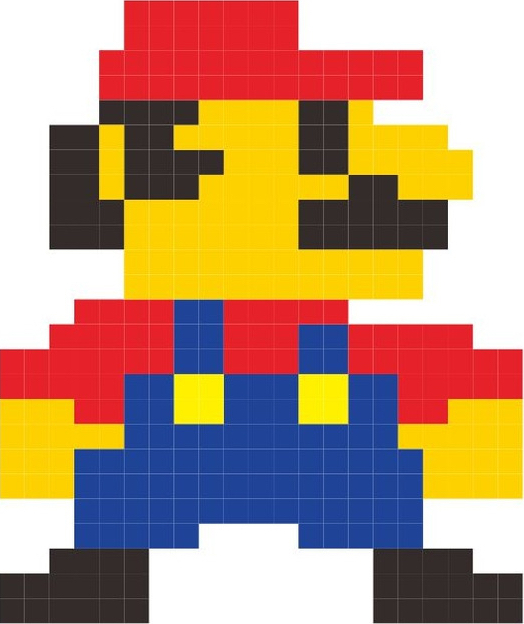
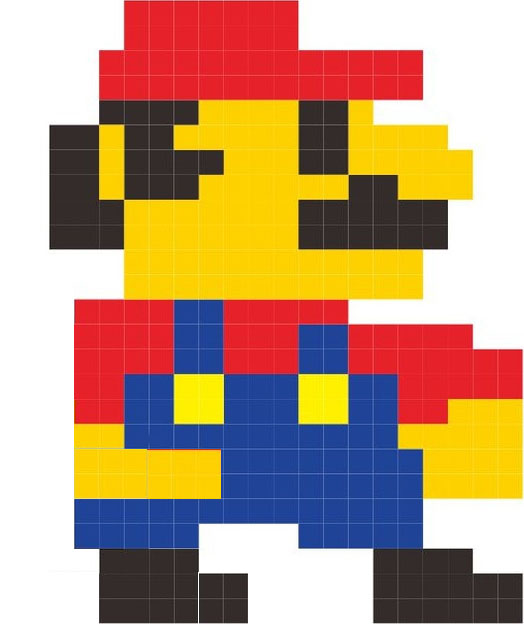
test

Changed region(s): [[0.0, 0.5176, 0.4275, 0.8221], [0.0, 0.8526, 0.2137, 1.0], [0.2748, 0.8526, 0.4885, 1.0]]

diff --git a/src/index.ts b/src/index.ts
@@ -2,6 +2,7 @@ import { PolygonPainter } from './painter/PolygonPainter';
 import { RectanglePainter } from './painter/RectanglePainter';
 import { ImagePainter } from './painter/ImagePainter';
 import { MoveLeftToRight } from './behavior/MoveLeftToRight';
+import { RunInPlace } from './behavior/RunInPlace';
 import { Sprite } from './sprite';
 
 let canvas: HTMLCanvasElement = document.querySelector('#canvas');
@@ -10,19 +11,37 @@ let context: CanvasRenderingContext2D = canvas.getContext('2d');
 canvas.width = 1000;
 canvas.height = 500;
 
-let img = '/src/static/images/m.jpg';
-let sprite = new Sprite('polygon', (new ImagePainter(img)), [MoveLeftToRight]);
+let img = '/src/static/images/mario.png';
+let cells = [
+    { left: 0, top: 0, width: 16, height: 32 },
+    { left: 16, top: 0, width: 16, height: 32 },
+    { left: 32, top: 0, width: 16, height: 32 },
+    { left: 48, top: 0, width: 16, height: 32 }
+];
+let sprite = new Sprite('polygon', (new ImagePainter(img, cells)), [(new RunInPlace),MoveLeftToRight]);
 sprite.left = 400;
 sprite.top = 200;
 sprite.width = 52;
 sprite.height = 62;
 
-function animate() {
-    console.log('trigger');
+let sprite2 = new Sprite('mario', (new ImagePainter(img, cells)), [(new RunInPlace), MoveLeftToRight] );
+
+sprite2.left = 200;
+sprite2.top = 100;
+sprite2.width = 52;
+sprite2.height = 62;
+
+let last = 0;
+
+function animate(time) {
+    console.log('time:', time);
     context.clearRect(0, 0, canvas.width, canvas.height);
 
-    sprite.update(context);
+    sprite.update(context, time);
     sprite.paint(context);
+    
+    sprite2.update(context, time);
+    sprite2.paint(context);
 
     window.requestAnimationFrame(animate);
 }

diff --git a/src/painter/ImagePainter.ts b/src/painter/ImagePainter.ts
@@ -1,18 +1,43 @@
 import { PainterInterface } from './PainterInterface';
 import { Sprite } from '../sprite';
 
+type Cell = {
+    left: number;
+    top: number;
+    width: number;
+    height: number;
+}
+
 class ImagePainter implements PainterInterface {
 
     image: HTMLImageElement;
-    constructor(url: string) {
+    index: number;
+    cells: Array<Cell>;
+
+    constructor(url: string, cells: Array<Cell>=[]) {
         this.image = new Image();
         this.image.src = url;
+        this.index = 0;
+        this.cells = cells;
+    }
+
+    advance(): void {
+        if ( this.index == this.cells.length - 1 ) {
+            this.index = 1;
+        } else {
+            this.index++;
+        }     
     }
 
     paint(sprite: Sprite, context: CanvasRenderingContext2D): void {
         if ( !this.image.complete ) return;
+        let cell = this.cells[this.index];
         context.drawImage(
             this.image,
+            cell.left,
+            cell.top,
+            cell.width,
+            cell.height,
             sprite.left,
             sprite.top,
             sprite.width,

diff --git a/src/behavior/RunInPlace.ts b/src/behavior/RunInPlace.ts
@@ -1,0 +1,22 @@
+import { BehaviorInterface } from './BehaviorInterface';
+import { SpriteInterface, Sprite } from '../sprite';
+
+class RunInPlace implements BehaviorInterface {
+
+    interval: number;
+    lastTime: number;
+
+    constructor() {
+        this.interval = 200;
+        this.lastTime = 0;
+    }
+
+    execute(sprite: SpriteInterface, context: CanvasRenderingContext2D, now: number): void {
+        if ( now - this.lastTime > this.interval ) {
+            sprite.painter.advance();
+            this.lastTime = now;
+        }
+    }
+}
+
+export { RunInPlace };

diff --git a/src/sprite.ts b/src/sprite.ts
@@ -65,9 +65,9 @@ class Sprite implements SpriteInterface {
         this.painter.paint(this, context);
     }
 
-    update(context: CanvasRenderingContext2D): void {
+    update(context: CanvasRenderingContext2D, time: number=0): void {
         for( let i = 0; i < this.behaviors.length; i++ ) {
-            this.behaviors[i].execute(this, context, 0);
+            this.behaviors[i].execute(this, context, time);
         }
     }
 

diff --git a/src/behavior/MoveLeftToRight.ts b/src/behavior/MoveLeftToRight.ts
@@ -4,7 +4,6 @@ import { SpriteInterface, Sprite } from '../sprite';
 let MoveLeftToRight: BehaviorInterface;
 MoveLeftToRight = {
     execute(sprite: Sprite, context: CanvasRenderingContext2D, now: number): void {
-        console.log(context.canvas.width);
         if ( ( sprite.left + sprite.width) >= context.canvas.width ) {
             sprite.velocityX = -1;
         } else if ( sprite.left <= 0 ) {

diff --git a/src/painter/PolygonPainter.ts b/src/painter/PolygonPainter.ts
@@ -10,7 +10,7 @@ PolygonPainter = {
         new Polygon(
             sprite.center_x,
             sprite.center_y,
-            sprite.radius,
+            sprite.radius,  
             sprite.sides
         ).stroke(context);
     }

diff --git a/src/animator/AnimatorInterface.ts b/src/animator/AnimatorInterface.ts
@@ -1,0 +1,10 @@
+import { PainterInterface } from '../painter/PainterInterface';
+
+interface AnimatorInterface {
+    painters: Array<PainterInterface>;
+
+    start(): void;
+    end(): void;
+}
+
+export { AnimatorInterface };

diff --git a/src/painter/PainterInterface.ts b/src/painter/PainterInterface.ts
@@ -2,7 +2,6 @@ import { Sprite } from '../sprite';
 
 interface PainterInterface {
     paint(sprite: Sprite, context: CanvasRenderingContext2D): void;
-
 }
 
 export { PainterInterface };
